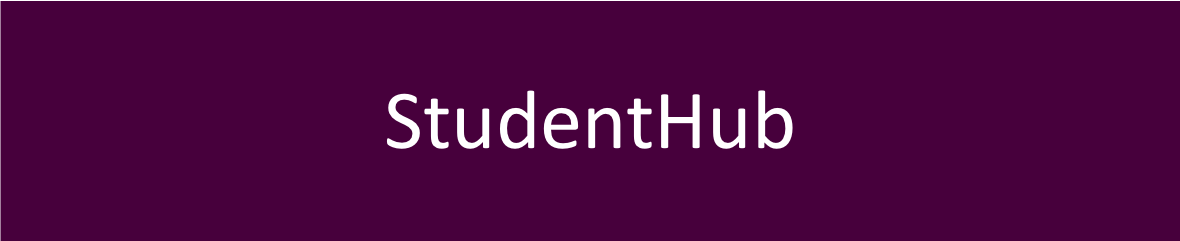
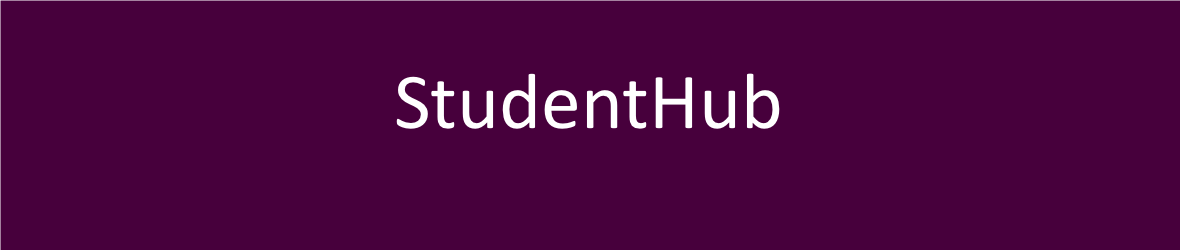
Changed theme parent back to swell-lite; some work on CSS and post-form

Changed region(s): [[0.3051, 0.2905, 0.6712, 0.639], [0.0, 0.0, 1.0, 0.029]]

diff --git a/style.css b/style.css
@@ -3,30 +3,80 @@
 	Theme URI: http://blogs.cmdn.dundee.ac.uk/tilt/
 	Description: Student Hub
 	Author: Natasha Hadfield
-	Template: bp-default
+	Template: swell-lite
 	Text Domain: dundee-mbchb-studenthub
 	Version: 0.1
 */
 
-@import url("../bp-default/style.css");
 @import url("swell-lite.css");
 @import url("tilt-style.css");
 
 body {
 	font-family: 'Raleway', 'Helvetica Neue', Arial, Helvetica, sans-serif;	
+	background-color: #EEEEEE;
+	line-height: 1;
+	margin: 0px;
 }
 
-#header { 
-	background-image:url(img/header-background-plum-shim.png); 
-	background-repeat: repeat; 
-	background-size: auto 100% !important; 
+input {
+	padding-top: 2px;
+	padding-bottom: 2px;
+}
+
+.swell-fixed-menu #custom-header { 
+	margin-top: 0px;
+}
+
+.admin-bar #navigation.fixed-nav {
+	margin-top: 0px !important;
+}
+
+image.hide-image {
+	border: 0px;
+}
+
+form#new-post fieldset {
+	border: 0px;
+	padding: 8px 0px 0px 0px;
+	font-size: 0.9em;
+}
+
+div.wp-editor-container {
+	border: 1px;
+	border-color: #CCCCCC;
+	border-style: solid;
+	margin-top: 8px;
+}
+
+
+div#header { 
+	background-image:url(img/header-background-plum-shim.png) !important;  
+}
+
+div#custom-header { 
+	border: 0px;
 }
 
 div#new-post {
 	background: #ffffff;	
-	padding: 4px 8px 4px 8px;
+	padding: 8px 8px 4px 8px;
 	margin-bottom: 4px;
-	border: 1px solid #ccc;
+	margin-top:20px;
+}
+
+div.article {
+	background-color: #FFFFFF;
+	padding: 8px 8px 4px 8px;
+}
+
+div.blog-holder {
+	box-shadow: 1px 1px 1px #CCCCCC;
+}
+
+div#content {
+	max-width: 1180px;
+	margin-left: auto;
+	margin-right: auto;
 }
 
 div#content .padder {
@@ -53,7 +103,7 @@ ul.activity-list li.activity-item {
 ul.tab {
     list-style-type: none;
     margin: 0;
-    padding: 0;
+    padding: 4px 4px 8px 4px;
     overflow: hidden;
 }
 
@@ -72,6 +122,7 @@ ul.tab li a {
     padding: 2px 10px 2px 0px;
     text-decoration: none;
     transition: 0.3s;
+    font-size: 0.9em;
 }
 
 /* Change background color of links on hover */

diff --git a/tilt-style.css b/tilt-style.css
@@ -8,7 +8,7 @@
 	Version: 0.1
 */
 
-* { margin: 0; }
+
 body { font-size: 1.0em; line-height: 1.4; }
 html, body { height: 100% !important; width:100%; }
 .clear { clear:both; }

diff --git a/functions.php b/functions.php
@@ -9,6 +9,7 @@ function my_bbp_verify_nonce_request_url( $requested_url )
 	return 'http://localhost:8888' . $_SERVER['REQUEST_URI'];
 }
 
+// register Javascript
 function wpb_adding_scripts() {
 	wp_register_script('studenthub-tabs', get_stylesheet_directory_uri().'/scripts/switch-tab.js');
 	wp_enqueue_script('studenthub-tabs');
@@ -16,17 +17,61 @@ function wpb_adding_scripts() {
 
 add_action( 'wp_enqueue_scripts', 'wpb_adding_scripts' ); 
 
-function register_my_menus() {
-	register_nav_menus(
-			array(
-					'fixed-menu' => __( 'Fixed Menu' ),
-			)
-			);
+// make sure that the menu is created - we don't want to do this in the admin dashboard as it would need to be configured on every new installation
+$menuname = "main-menu";
+$menu_exists = wp_get_nav_menu_object( $menuname );
+
+if (!$menu_exists) {
+	$menu_id = wp_create_nav_menu($menuname);
+
+	wp_update_nav_menu_item($menu_id, 0, array(
+			'menu-item-title' =>  __('StudentHub'),
+			'menu-item-classes' => 'home',
+			'menu-item-url' => home_url( '/' ),
+			'menu-item-status' => 'publish'));
+
+	wp_update_nav_menu_item($menu_id, 0, array(
+			'menu-item-title' =>  __('StudyZone'),
+			'menu-item-classes' => 'studyzone',
+			'menu-item-url' => home_url( '/studyzone/' ),
+			'menu-item-status' => 'publish'));
+
+	wp_update_nav_menu_item($menu_id, 0, array(
+			'menu-item-title' =>  __('Societies'),
+			'menu-item-classes' => 'societies',
+			'menu-item-url' => home_url( '/societies/' ),
+			'menu-item-status' => 'publish'));
+
+	wp_update_nav_menu_item($menu_id, 0, array(
+			'menu-item-title' =>  __('MSC'),
+			'menu-item-classes' => 'msc',
+			'menu-item-url' => home_url( '/MSC/' ),
+			'menu-item-status' => 'publish'));
+
+	wp_update_nav_menu_item($menu_id, 0, array(
+			'menu-item-title' =>  __('Peer Mentors'),
+			'menu-item-classes' => 'peer-mentors',
+			'menu-item-url' => home_url( '/peer-mentors/' ),
+			'menu-item-status' => 'publish'));
+
+	wp_update_nav_menu_item($menu_id, 0, array(
+			'menu-item-title' =>  __('Profile'),
+			'menu-item-classes' => 'profile',
+			'menu-item-url' => home_url( '/profile/' ),
+			'menu-item-status' => 'publish'));
+
+	wp_update_nav_menu_item($menu_id, 0, array(
+			'menu-item-title' =>  __('MedBlogs'),
+			'menu-item-classes' => 'medblogs',
+			'menu-item-url' => home_url( 'http://medblogs.dundee.ac.uk' ),
+			'menu-item-status' => 'publish'));
+
+	$locations = get_theme_mod('nav_menu_locations');
+	$locations['fixed-menu'] = $menu_id;
+	set_theme_mod( 'nav_menu_locations', $locations );
 }
-add_action( 'init', 'register_my_menus' );
-
+	
 // make sure that all the categories are created
-
 wp_create_category( "systems" );
 wp_create_category( "respiratory", "systems" );
 wp_create_category( "cardiovascular", "systems" );

diff --git a/activity/post-form.php b/activity/post-form.php
@@ -45,39 +45,13 @@ do_action( 'bp_before_new_topic_form' ); ?>
 								<?php do_action( 'bbp_theme_before_topic_form_title' ); ?>
 			
 							
-								<label for="bbp_topic_title"><?php printf( __( 'Title:', 'bbpress' ), bbp_get_title_max_length() ); ?></label>
+								<label for="bbp_topic_title"><?php printf( __( 'Topic:', 'bbpress' ), bbp_get_title_max_length() ); ?></label>
 								<input type="text" id="bbp_topic_title" value="<?php bbp_form_topic_title(); ?>" tabindex="<?php bbp_tab_index(); ?>" size="40" name="bbp_topic_title" maxlength="<?php bbp_title_max_length(); ?>" />
 			
 								<?php do_action( 'bbp_theme_after_topic_form_title' ); ?>
 								<?php do_action( 'bbp_theme_before_topic_form_content' ); ?>
 								<?php bbp_the_content( array( 'context' => 'topic' ) ); ?>
 								<?php do_action( 'bbp_theme_after_topic_form_content' ); ?>
-			
-								<?php if ( bbp_allow_topic_tags() && current_user_can( 'assign_topic_tags' ) ) : ?>
-			
-									<?php do_action( 'bbp_theme_before_topic_form_tags' ); ?>
-			
-									<p>
-										<label for="bbp_topic_tags"><?php _e( 'Topic Tags:', 'bbpress' ); ?></label><br />
-										<input type="text" value="<?php bbp_form_topic_tags(); ?>" tabindex="<?php bbp_tab_index(); ?>" size="40" name="bbp_topic_tags" id="bbp_topic_tags" <?php disabled( bbp_is_topic_spam() ); ?> />
-									</p>
-			
-									<?php do_action( 'bbp_theme_after_topic_form_tags' ); ?>
-			
-								<?php endif; ?>
-	
-								<?php if ( bbp_is_subscriptions_active() && !bbp_is_anonymous() && ( !bbp_is_topic_edit() || ( bbp_is_topic_edit() && !bbp_is_topic_anonymous() ) ) ) : ?>
-			
-									<?php do_action( 'bbp_theme_before_topic_form_subscriptions' ); ?>
-			
-									<p>
-										<input name="bbp_topic_subscription" id="bbp_topic_subscription" type="checkbox" value="bbp_subscribe" <?php bbp_form_topic_subscribed(); ?> tabindex="<?php bbp_tab_index(); ?>" />
-										<label for="bbp_topic_subscription"><?php _e( 'Notify me of replies via email', 'bbpress' ); ?></label>
-									</p>
-			
-									<?php do_action( 'bbp_theme_after_topic_form_subscriptions' ); ?>
-			
-								<?php endif; ?>
 			
 								<?php do_action( 'bbp_theme_before_topic_form_submit_wrapper' ); ?>
 			

diff --git a/header.php b/header.php
@@ -1,10 +1,7 @@
 <?php
 /**
- * The Header for our theme.
+ * The Header for our theme - this is dependent on the page we're currently on.
  * Displays all of the <head> section and everything up till <div id="wrap">
- *
- * @package Swell Lite
- * @since Swell Lite 1.0
  */
 
 ?><!DOCTYPE html>
@@ -36,7 +33,8 @@
 
 	<button class="menu-toggle"><i class="fa fa-bars"></i></button>
 
-	<?php
+	<!-- create the fixed menu programmatically as we don't want to have to change this on installation in the admin panel -->
+	<?php		
 		wp_nav_menu( array(
 			'theme_location' 		=> 'fixed-menu',
 			'title_li' 					=> '',
@@ -45,6 +43,7 @@
 			'menu_class'      	=> 'menu',
 			)
 		);
+		
 	?>
 
 <!-- END #navigation -->
@@ -52,18 +51,10 @@
 
 <!-- BEGIN #header -->
 <div id="header">
-
-	<?php $header_image = get_header_image(); if ( ! empty( $header_image ) ) { ?>
-
-		<div id="custom-header" style="background-image: url(<?php header_image(); ?>);">
-
-			<img class="hide-img" src="<?php header_image(); ?>" height="<?php echo esc_attr( get_custom_header()->height ); ?>" width="<?php echo esc_attr( get_custom_header()->width ); ?>" alt="<?php echo esc_attr( get_bloginfo() ); ?>" />
-
+		<?php $uri = get_stylesheet_directory_uri().'/studenthub-header.png'; ?>
+		<div id="custom-header" style="background-image: url(<?php echo($uri)?>);">
+			<img class="hide-img" src="<?php $uri ?>" height="250" width="1180" alt="<?php echo esc_attr( get_bloginfo() ); ?>" />
 		</div>
-
-	<?php } ?>
-
-<!-- END #header -->
 </div>
 
 <?php if ( has_nav_menu( 'main-menu' ) ) { ?>

diff --git a/index.php b/index.php
@@ -1,0 +1,43 @@
+<?php
+
+/**
+ * This template displays the loop of topics within a block.
+ *
+ * @package Student Hub
+ * @since Student Hub 1.0
+ */
+?>
+
+	<?php get_header(); ?>
+	
+<?php
+	$bbp = bbpress();
+	$bbp_f = bbp_parse_args('', array(
+			'post_type'           => bbp_get_topic_post_type(),
+			'posts_per_page'      => get_option( '_bbp_forums_per_page', 10 ),
+			'order'               => 'ASC'), 'has_topics' );
+	
+	$query = new WP_Query( $bbp_f ); 
+?>
+	
+	<?php while ( $query->have_posts() ) : $query->the_post(); ?>
+				
+	<div id="content">
+		<div class="blog-holder shadow radius-full post-250 post type-topic status-publish format-standard hentry">
+			<?php locate_template( array( 'activity/post-form.php'), true ); ?>
+		</div>
+		<div class="blog-holder shadow radius-full post-250 post type-topic status-publish format-standard hentry">
+			<div class="article">
+				<p><b><?php the_title(); ?></b><br>
+				<?php the_excerpt(); ?></p>
+				<?php do_action( 'bbp_theme_before_reply_content' ); ?>
+				<?php do_action( 'bbp_theme_after_reply_content' ); ?>
+			</div>
+		</div>
+
+	<?php 
+		endwhile;
+		wp_reset_postdata();
+		remove_Filter('posts_where', array(&$whereFilter, 'add_where_filter'));
+	?>	
+		</div>

diff --git a/content/loop-block.php b/content/loop-block.php
@@ -9,12 +9,9 @@
 ?>
 
 <?php
-	$block = get_the_terms(get_the_ID(), 'block-tag')[0]->name;
-	
 	$bbp = bbpress();
 	$bbp_f = bbp_parse_args('', array(
 			'post_type'           => bbp_get_topic_post_type(),
-			'block-tag'			  => $block,
 			'posts_per_page'      => get_option( '_bbp_forums_per_page', 10 ),
 			'order'               => 'ASC'), 'has_topics' );
 	
@@ -25,7 +22,7 @@
 	<div class="blog-holder shadow radius-full post-250 post type-topic status-publish format-standard hentry">
 		<div class="article">
 			<div class="post-date">
-				<p><?php get_the_terms(get_the_ID(), 'topic-type')[0]->name ?> posted in <?php echo $block ?> by <?php the_author() ?></p>
+				<p>posted by <?php the_author() ?></p>
 			</div>
 			<h2 class="headline"><?php the_title(); ?></h2>
 			<p><?php the_excerpt(); ?></p>

diff --git a/content/loop-topic.php b/content/loop-topic.php
@@ -23,10 +23,7 @@ while ( $query->have_posts() ) : $query->the_post();
 ?>						
 	<div class="blog-holder shadow radius-full post-250 post type-topic status-publish format-standard hentry">
 		<div class="article">
-			<div class="post-date">
-				<p><i class="fa fa-clock-o"></i> Posted by <?php the_author() ?></p>
-			</div>
-			<h2 class="headline"><?php the_title(); ?></h2>
+			<p> class="headline"><?php the_title(); ?></p>
 			<p><?php the_excerpt(); ?></p>
 			<?php do_action( 'bbp_theme_before_reply_content' ); ?>
 			<?php do_action( 'bbp_theme_after_reply_content' ); ?>
